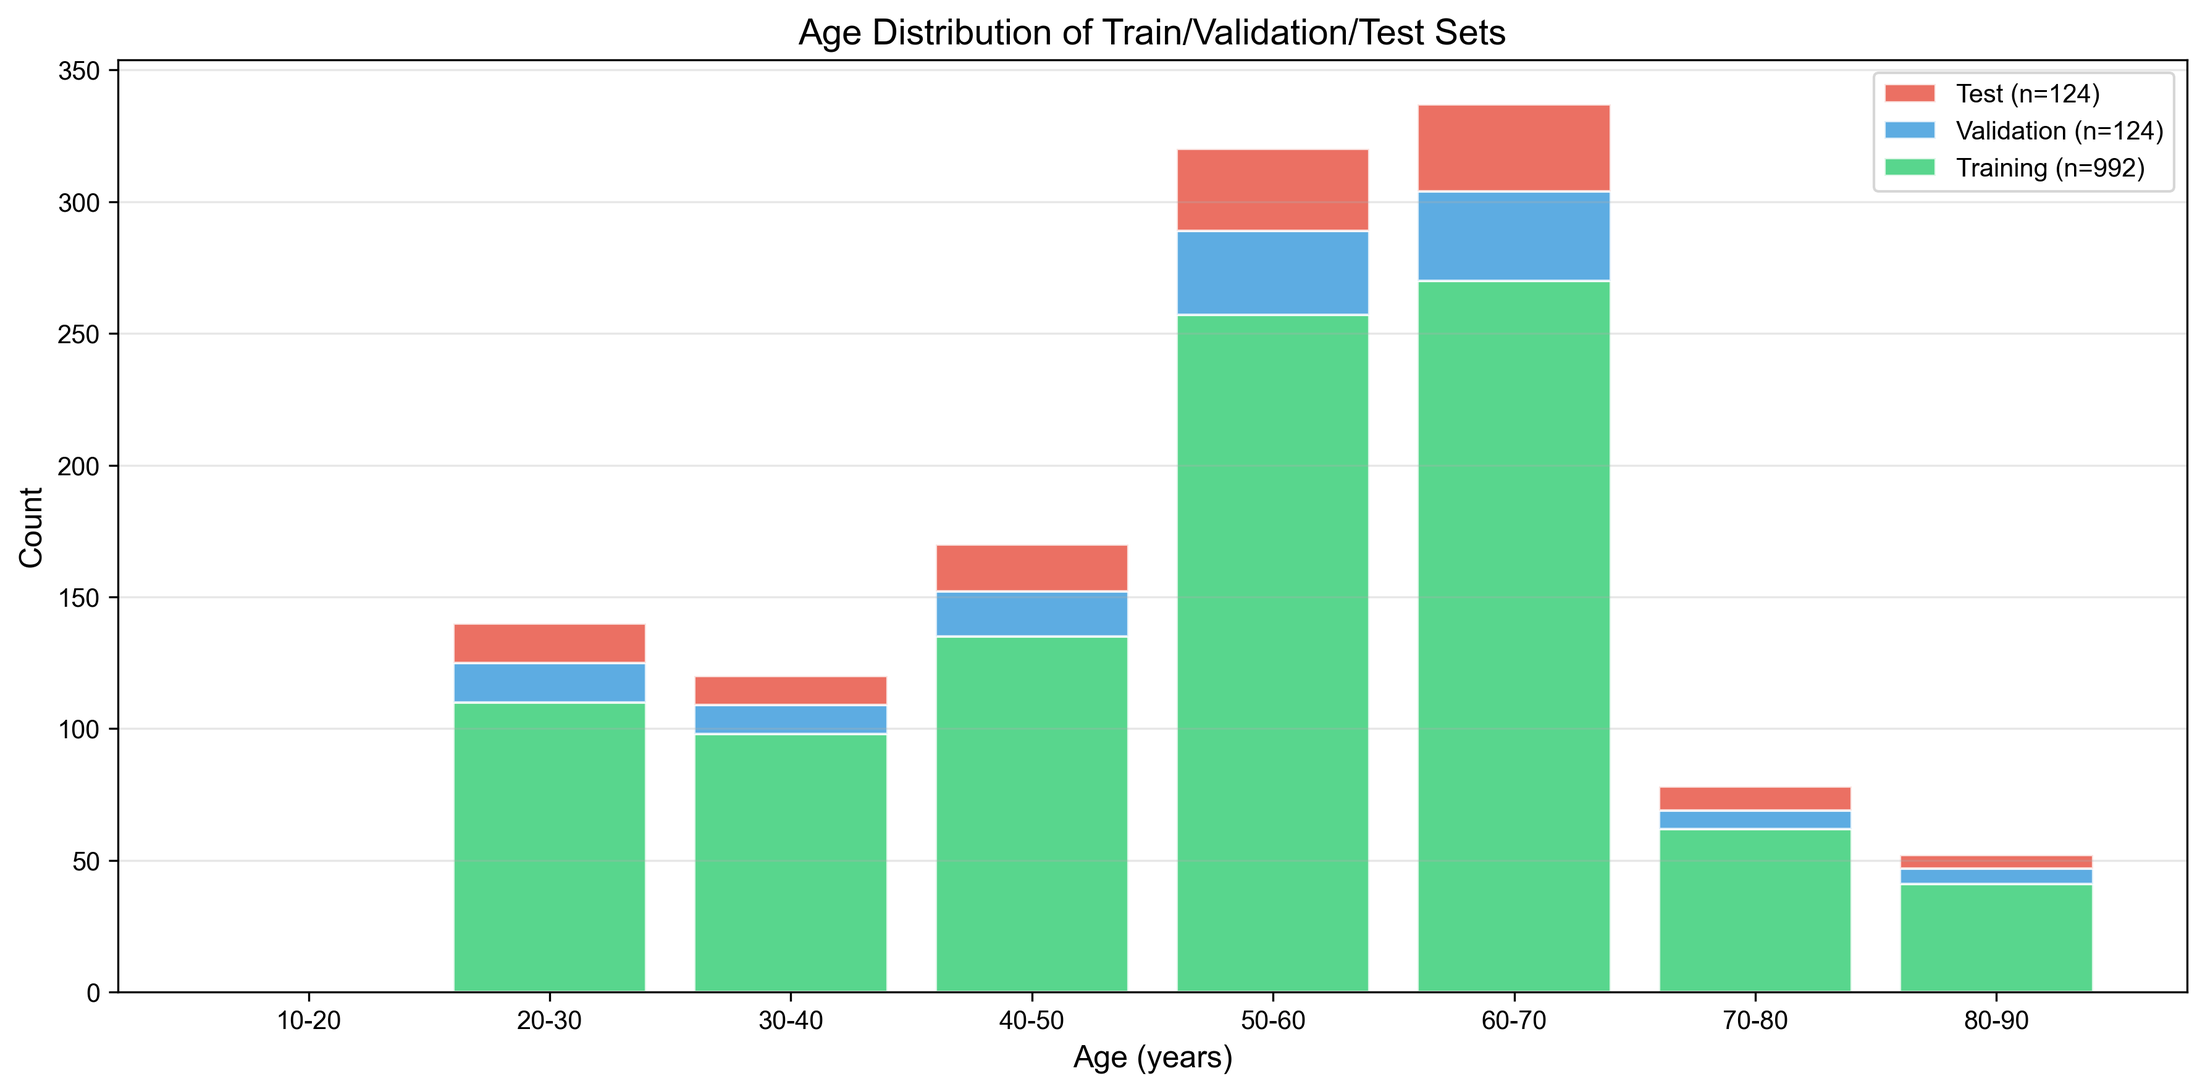
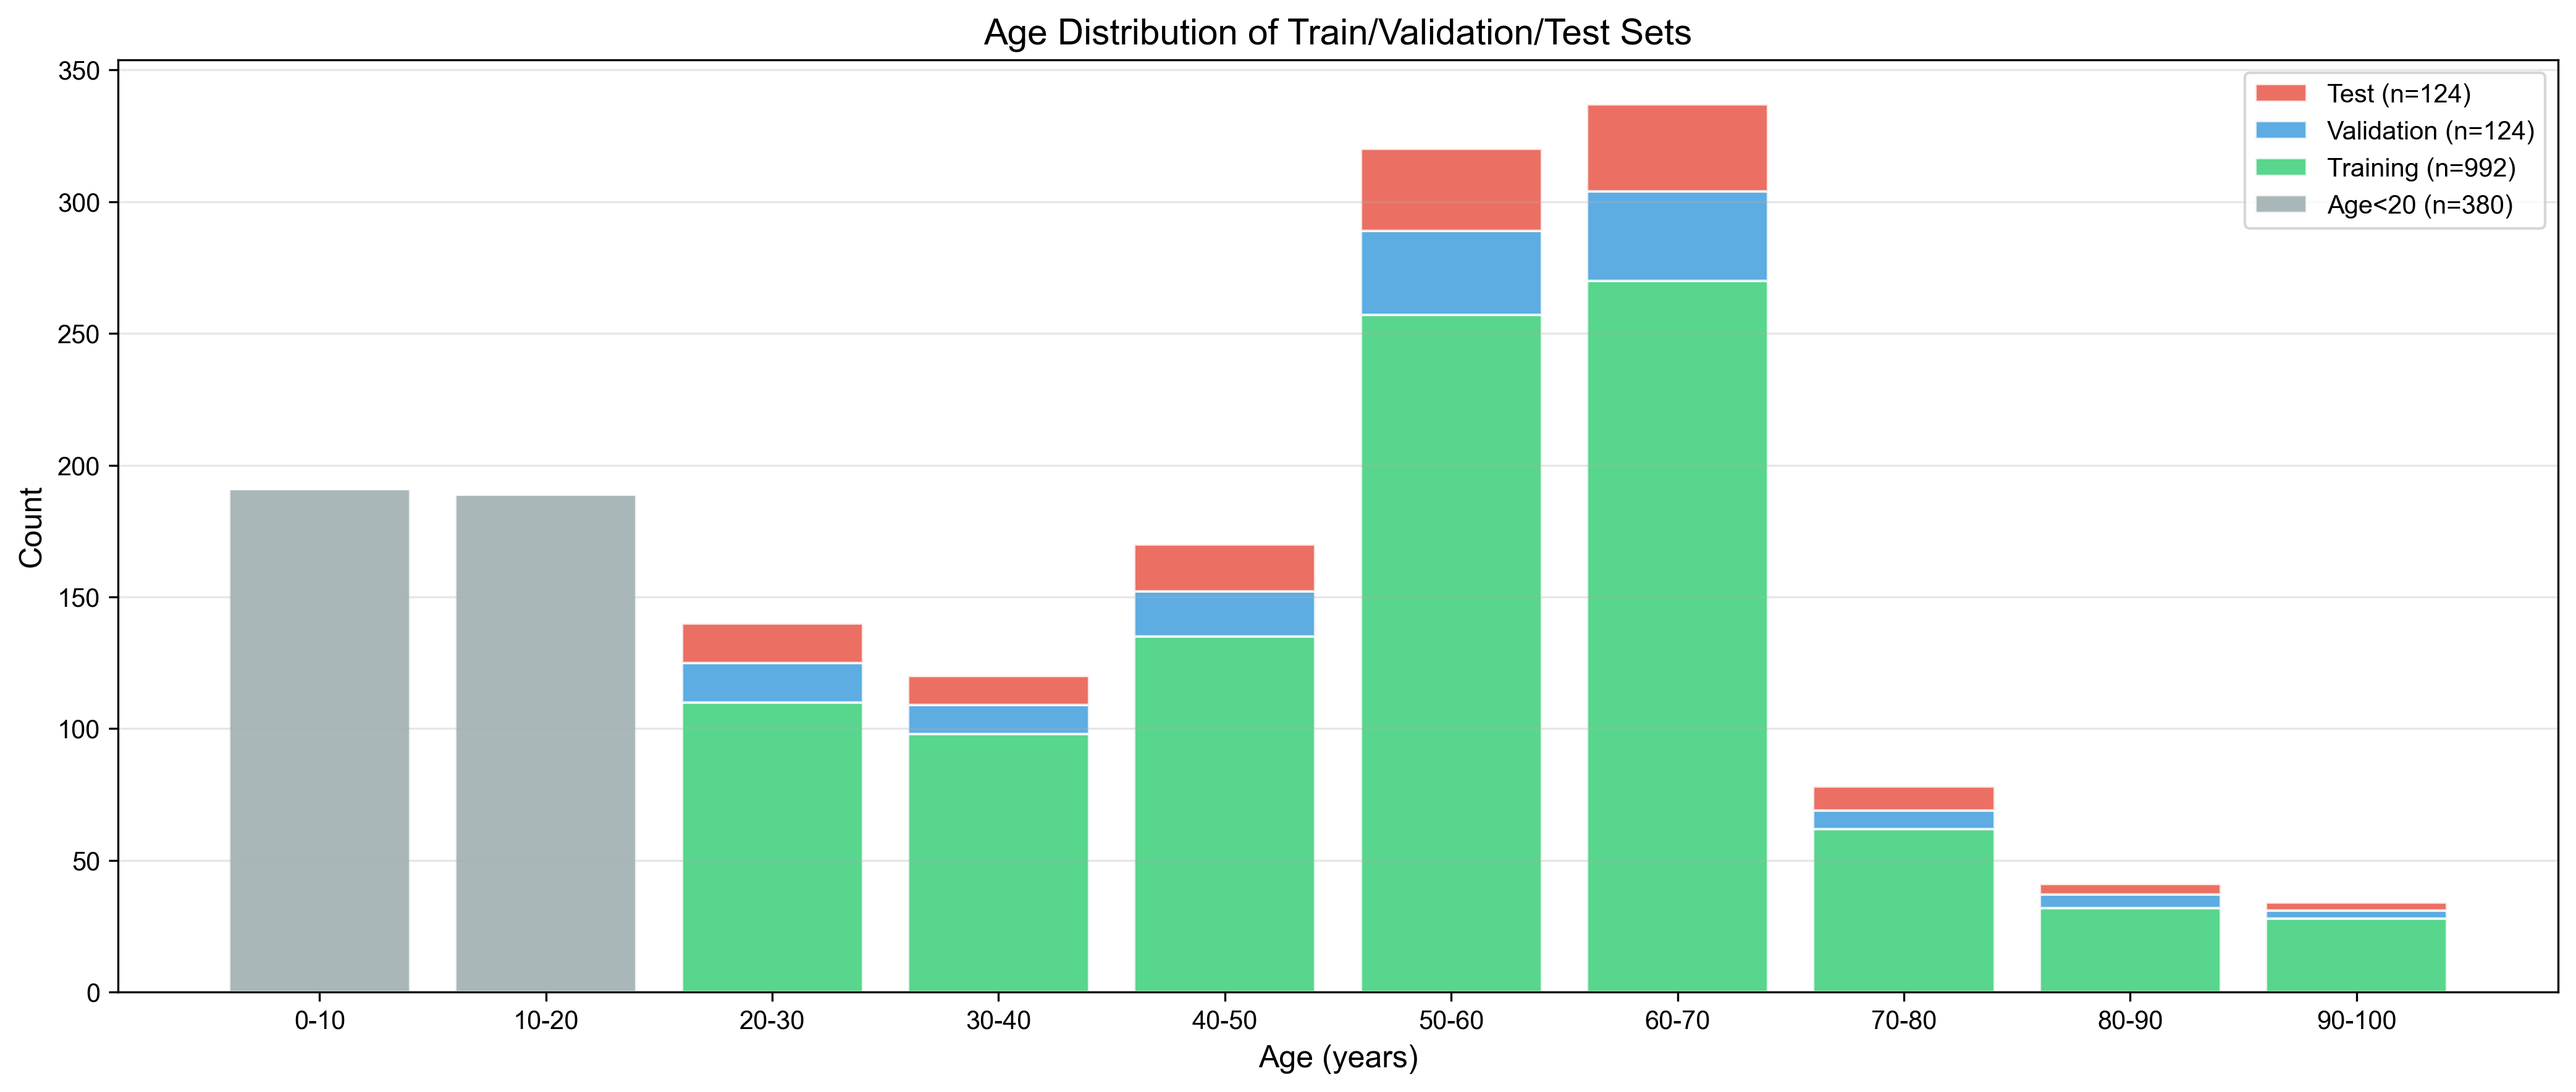
feat(analysis): 改进年龄分布可视化并添加检查脚本
添加check_age_distribution.py脚本用于检查年龄分布数据
修改plot_age_distribution.py以包含年龄<20的样本单独显示
调整图表尺寸和颜色方案以提高可读性

diff --git a/scripts/analysis/plot_age_distribution.py b/scripts/analysis/plot_age_distribution.py
@@ -34,27 +34,33 @@ def plot_age_distribution_histogram():
 
     X_train, X_val, X_test, y_train, y_val, y_test = split_data(merged_df)
 
+    y_under20 = merged_df[merged_df['age'] < 20]['age']
+
     print(f"训练集样本数: {len(y_train)}")
     print(f"验证集样本数: {len(y_val)}")
     print(f"测试集样本数: {len(y_test)}")
+    print(f"年龄<20样本数: {len(y_under20)}")
 
-    fig, ax = plt.subplots(figsize=(12, 6))
+    fig, ax = plt.subplots(figsize=(14, 6))
 
-    bins = np.arange(10, 100, 10)
+    bins = np.array([0, 10, 20, 30, 40, 50, 60, 70, 80, 90, 100])
     bin_centers = 0.5 * (bins[:-1] + bins[1:])
     bin_width = bins[1] - bins[0]
 
+    hist_under20, _ = np.histogram(y_under20, bins=bins)
     hist_train, _ = np.histogram(y_train, bins=bins)
     hist_val, _ = np.histogram(y_val, bins=bins)
     hist_test, _ = np.histogram(y_test, bins=bins)
 
     bar_width = bin_width * 0.8
 
-    ax.bar(bin_centers, hist_train, width=bar_width, 
+    ax.bar(bin_centers, hist_under20, width=bar_width, 
+           label=f'Age<20 (n={len(y_under20)})', color='#95a5a6', edgecolor='white', alpha=0.8)
+    ax.bar(bin_centers, hist_train, width=bar_width, bottom=hist_under20, 
            label=f'Training (n={len(y_train)})', color='#2ecc71', edgecolor='white', alpha=0.8)
-    ax.bar(bin_centers, hist_val, width=bar_width, bottom=hist_train, 
+    ax.bar(bin_centers, hist_val, width=bar_width, bottom=hist_under20 + hist_train, 
            label=f'Validation (n={len(y_val)})', color='#3498db', edgecolor='white', alpha=0.8)
-    ax.bar(bin_centers, hist_test, width=bar_width, bottom=hist_train + hist_val, 
+    ax.bar(bin_centers, hist_test, width=bar_width, bottom=hist_under20 + hist_train + hist_val, 
            label=f'Test (n={len(y_test)})', color='#e74c3c', edgecolor='white', alpha=0.8)
 
     handles, labels = ax.get_legend_handles_labels()

diff --git a/check_age_distribution.py b/check_age_distribution.py
@@ -1,0 +1,22 @@
+import sys
+sys.path.insert(0, '.')
+import numpy as np
+import pandas as pd
+
+merged_df = pd.read_csv('preprocessed_data/merged_scaled.csv', index_col=0)
+numeric_columns = merged_df.select_dtypes(include=[np.number]).columns
+if 'age' not in numeric_columns:
+    numeric_columns = list(numeric_columns) + ['age']
+merged_df = merged_df[numeric_columns]
+merged_df = merged_df.dropna(axis=1, how='any')
+merged_df = merged_df.dropna()
+
+print(f'总样本数: {len(merged_df)}')
+print(f'年龄<20的样本数: {len(merged_df[merged_df["age"] < 20])}')
+print(f'年龄>=20的样本数: {len(merged_df[merged_df["age"] >= 20])}')
+
+bins = [0, 10, 20, 30, 40, 50, 60, 70, 80, 90, 100]
+merged_df['age_bin'] = pd.cut(merged_df['age'], bins=bins)
+print()
+print('完整年龄分布:')
+print(merged_df['age_bin'].value_counts().sort_index())
